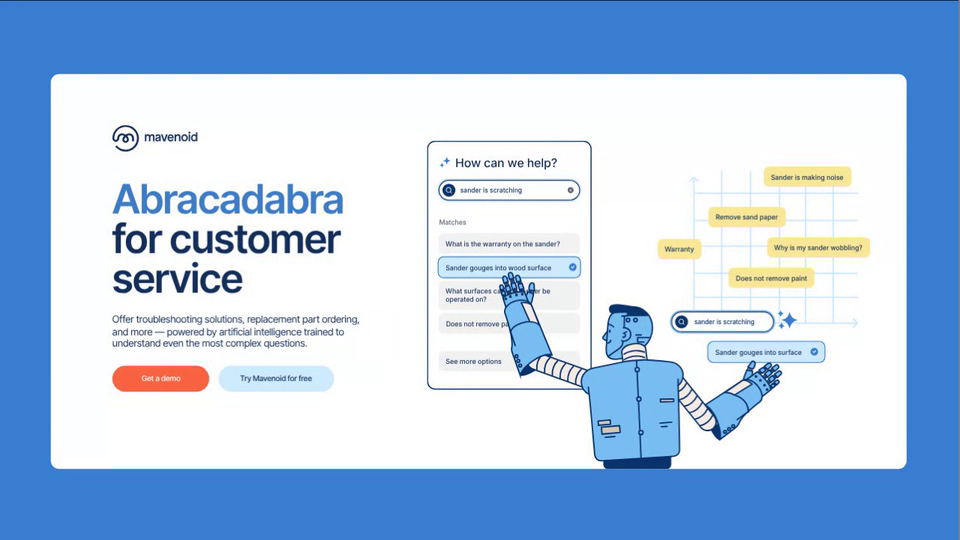
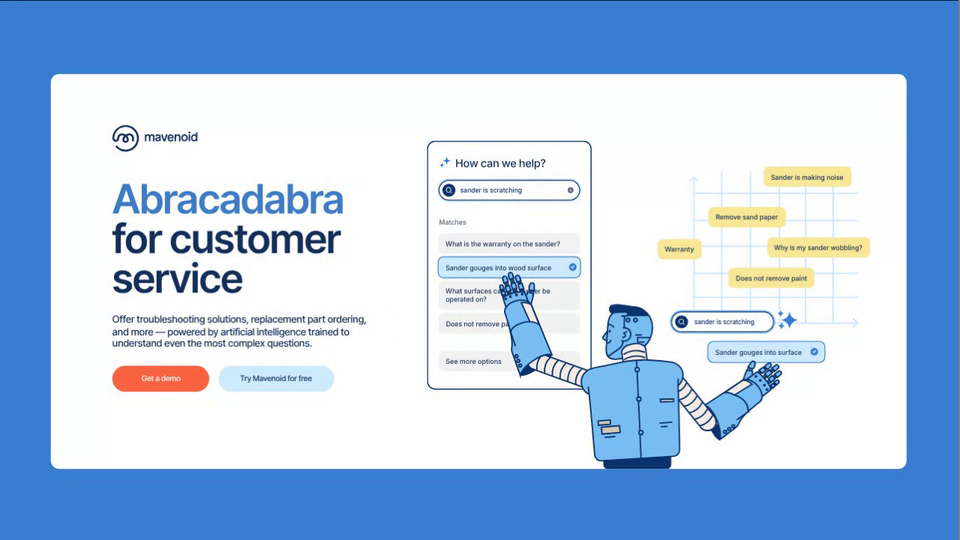
Mavenoid Hero: type tweaks (#766)
* Add Mavenoid Hero: pure-code recreation of the hero on the sandbox blue

Claude-Session: https://claude.ai/code/session_01AHeBdxGLJ6L4xFuMgcZPKG

* Mavenoid Hero: match the reference type (Inter Tight), logo mark and headline measurements

Claude-Session: https://claude.ai/code/session_01AHeBdxGLJ6L4xFuMgcZPKG

* Mavenoid Hero: scale the hero up 20% and tighten the headline line height

Claude-Session: https://claude.ai/code/session_01AHeBdxGLJ6L4xFuMgcZPKG

* Mavenoid Hero: real Mavenoid logo SVG, 30% larger hero, #3a7ed4 background

Claude-Session: https://claude.ai/code/session_01AHeBdxGLJ6L4xFuMgcZPKG

* Mavenoid Hero: tighter headline tracking, looser body copy, hero 15% smaller

Claude-Session: https://claude.ai/code/session_01AHeBdxGLJ6L4xFuMgcZPKG

* Mavenoid Hero: hover, press and focus effects on the two buttons

Claude-Session: https://claude.ai/code/session_01AHeBdxGLJ6L4xFuMgcZPKG

* Mavenoid Hero: buttons darken on hover, no drop shadow

Claude-Session: https://claude.ai/code/session_01AHeBdxGLJ6L4xFuMgcZPKG

* Mavenoid Hero: less rounded card corners, hero 5% bigger

Claude-Session: https://claude.ai/code/session_01AHeBdxGLJ6L4xFuMgcZPKG

* Mavenoid Hero: smaller, bolder, tighter 'How can we help?'; body copy one weight up

Claude-Session: https://claude.ai/code/session_01AHeBdxGLJ6L4xFuMgcZPKG

---------

Changed region(s): [[0.125, 0.563, 0.375, 0.6519], [0.4688, 0.2963, 0.5938, 0.3259]]

diff --git a/mavenoid-hero/index.html b/mavenoid-hero/index.html
@@ -36,7 +36,7 @@ main{flex:1;min-height:0;display:flex;align-items:center;justify-content:center;
 .logo path{fill:#14305A}
 h1{font:600 calc(76.7*var(--u))/calc(75.5*var(--u)) "Inter Tight","Inter","Helvetica Neue",Arial,sans-serif;letter-spacing:-.012em;color:#14305A;white-space:nowrap}
 h1 span{color:#3F7DC6}
-.lede{font:400 calc(18.65*var(--u))/calc(22.5*var(--u)) "Inter Tight","Inter","Helvetica Neue",Arial,sans-serif;color:#14305A;white-space:nowrap}
+.lede{font:500 calc(18.65*var(--u))/calc(22.5*var(--u)) "Inter Tight","Inter","Helvetica Neue",Arial,sans-serif;color:#14305A;white-space:nowrap}
 .btn{display:flex;align-items:center;justify-content:center;height:calc(50.5*var(--u));border-radius:calc(26*var(--u));font:500 calc(14.5*var(--u))/1 "Inter Tight","Inter","Helvetica Neue",Arial,sans-serif;text-decoration:none;white-space:nowrap}
 .btn.go{width:calc(184*var(--u));background:#F96442;color:#fff}
 .btn.try{width:calc(219*var(--u));background:#CFECFF;color:#14305A}
@@ -73,7 +73,7 @@ svg text{font-family:"Inter","Helvetica Neue",Helvetica,Arial,sans-serif;font-we
 <rect x="0.388" y="0.388" width="113.296" height="172.051" rx="5.18884" fill="white" stroke="#0C346C" stroke-width="0.775982"/>
 <path d="M9.58404 16.5915C9.50807 16.6367 9.42754 16.6735 9.34387 16.7015C9.27743 16.7237 9.209 16.7404 9.1393 16.7511C9.10065 16.7571 9.06162 16.7612 9.02231 16.7635C8.99955 16.7648 8.97671 16.7655 8.9538 16.7656L8.95305 16.7656C8.95126 16.7656 8.94948 16.7656 8.94771 16.7657C8.90249 16.767 8.8594 16.7856 8.82732 16.8176C8.79397 16.8509 8.77524 16.8961 8.77524 16.9432C8.77524 16.9664 8.77985 16.9894 8.78882 17.0108C8.79779 17.0322 8.81093 17.0517 8.82747 17.0679C8.84402 17.0842 8.86364 17.0971 8.8852 17.1057C8.90676 17.1143 8.92982 17.1186 8.95305 17.1182L8.9538 17.1183C9.01744 17.1184 9.08057 17.1235 9.14267 17.1332C9.21155 17.144 9.27917 17.1606 9.34485 17.1826C9.42817 17.2106 9.50837 17.2474 9.58404 17.2923C9.67212 17.3447 9.75407 17.4082 9.82768 17.4819C9.90156 17.5559 9.96512 17.6382 10.0174 17.7267C10.0622 17.8024 10.0987 17.8825 10.1264 17.9657C10.1478 18.0299 10.1639 18.096 10.1745 18.1632C10.1846 18.2268 10.1897 18.2914 10.1897 18.3566C10.1897 18.4037 10.2085 18.4489 10.2418 18.4822C10.2752 18.5155 10.3204 18.5342 10.3675 18.5342C10.4147 18.5342 10.4599 18.5155 10.4933 18.4822C10.5266 18.4489 10.5454 18.4037 10.5454 18.3566C10.5454 18.2914 10.5505 18.2268 10.5606 18.1632C10.5712 18.096 10.5873 18.0299 10.6087 17.9657C10.6364 17.8825 10.6729 17.8024 10.7177 17.7267C10.77 17.6382 10.8335 17.5559 10.9074 17.4819C10.981 17.4082 11.063 17.3447 11.151 17.2923C11.2267 17.2474 11.3069 17.2106 11.3902 17.1826C11.4559 17.1606 11.5235 17.144 11.5924 17.1332C11.6308 17.1272 11.6697 17.123 11.7088 17.1206C11.7328 17.1191 11.757 17.1183 11.7813 17.1183L11.782 17.1182C11.8053 17.1186 11.8283 17.1143 11.8499 17.1057C11.8714 17.0971 11.8911 17.0842 11.9076 17.0679C11.9242 17.0517 11.9373 17.0322 11.9463 17.0108C11.9552 16.9894 11.9599 16.9664 11.9598 16.9432C11.9598 16.9199 11.9552 16.8968 11.9463 16.8753C11.9374 16.8537 11.9243 16.8341 11.9078 16.8176C11.8913 16.8011 11.8717 16.788 11.8501 16.7791C11.8302 16.7709 11.8089 16.7663 11.7874 16.7657C11.7856 16.7656 11.7838 16.7656 11.782 16.7656L11.7813 16.7656C11.7584 16.7655 11.7355 16.7648 11.7128 16.7635C11.6735 16.7612 11.6344 16.7571 11.5958 16.7511C11.5261 16.7404 11.4577 16.7237 11.3912 16.7015C11.3075 16.6735 11.227 16.6367 11.151 16.5915C11.063 16.5391 10.981 16.4757 10.9074 16.402C10.8335 16.328 10.77 16.2456 10.7177 16.1571C10.6729 16.0815 10.6364 16.0013 10.6087 15.9181C10.5873 15.8539 10.5712 15.7879 10.5606 15.7206C10.5505 15.6571 10.5454 15.5924 10.5454 15.5273C10.5454 15.4802 10.5266 15.435 10.4933 15.4016C10.4599 15.3683 10.4147 15.3496 10.3675 15.3496C10.3204 15.3496 10.2752 15.3683 10.2418 15.4016C10.2085 15.435 10.1897 15.4802 10.1897 15.5273C10.1897 15.5924 10.1846 15.6571 10.1745 15.7206C10.1639 15.7879 10.1478 15.8539 10.1264 15.9181C10.0987 16.0013 10.0622 16.0815 10.0174 16.1571C9.96512 16.2456 9.90156 16.328 9.82768 16.402C9.75407 16.4757 9.67212 16.5391 9.58404 16.5915Z" fill-rule="evenodd" clip-rule="evenodd" fill="#397ED3"/>
 <path d="M12.5196 13.3345C12.4057 13.4022 12.2849 13.4576 12.1594 13.4995C12.0597 13.5329 11.9571 13.5578 11.8525 13.5739C11.7946 13.5829 11.736 13.5891 11.677 13.5925C11.6429 13.5945 11.6086 13.5955 11.5743 13.5956L11.5731 13.5956C11.5705 13.5956 11.5678 13.5957 11.5651 13.5958C11.4973 13.5978 11.4327 13.6256 11.3845 13.6737C11.3345 13.7237 11.3064 13.7914 11.3064 13.8621C11.3064 13.8969 11.3133 13.9314 11.3268 13.9635C11.3403 13.9956 11.36 14.0247 11.3848 14.0492C11.4096 14.0736 11.439 14.0929 11.4714 14.1058C11.5037 14.1188 11.5383 14.1252 11.5731 14.1246L11.5743 14.1246C11.6697 14.1249 11.7644 14.1325 11.8576 14.1471C11.9609 14.1633 12.0623 14.1882 12.1608 14.2212C12.2858 14.2632 12.4061 14.3183 12.5196 14.3858C12.6517 14.4643 12.7747 14.5595 12.8851 14.6701C12.9959 14.7811 13.0913 14.9046 13.1697 15.0373C13.2368 15.1508 13.2916 15.271 13.3332 15.3959C13.3652 15.4922 13.3894 15.5912 13.4054 15.692C13.4205 15.7874 13.4282 15.8844 13.4282 15.9821C13.4282 16.0528 13.4563 16.1206 13.5063 16.1705C13.5563 16.2205 13.6241 16.2486 13.6949 16.2486C13.7656 16.2486 13.8335 16.2205 13.8835 16.1705C13.9335 16.1206 13.9616 16.0528 13.9616 15.9821C13.9616 15.8844 13.9693 15.7874 13.9844 15.692C14.0003 15.5912 14.0246 15.4922 14.0566 15.3959C14.0982 15.271 14.1529 15.1508 14.22 15.0373C14.2985 14.9046 14.3939 14.7811 14.5047 14.6701C14.6151 14.5595 14.738 14.4643 14.8701 14.3858C14.9836 14.3183 15.1039 14.2632 15.2289 14.2212C15.3274 14.1882 15.4289 14.1633 15.5322 14.1471C15.5898 14.1381 15.6481 14.1317 15.7067 14.1281C15.7428 14.1259 15.7791 14.1247 15.8155 14.1246L15.8166 14.1246C15.8515 14.1252 15.8861 14.1188 15.9184 14.1058C15.9507 14.0929 15.9802 14.0736 16.005 14.0492C16.0298 14.0247 16.0495 13.9956 16.063 13.9635C16.0764 13.9314 16.0833 13.8969 16.0833 13.8621C16.0833 13.8271 16.0764 13.7925 16.063 13.7601C16.0496 13.7278 16.03 13.6984 16.0052 13.6737C15.9805 13.6489 15.9511 13.6293 15.9187 13.6159C15.8888 13.6036 15.8569 13.5967 15.8246 13.5958C15.822 13.5957 15.8193 13.5956 15.8166 13.5956L15.8155 13.5956C15.7811 13.5955 15.7469 13.5945 15.7127 13.5925C15.6538 13.5891 15.5952 13.5829 15.5372 13.5739C15.4327 13.5578 15.3301 13.5329 15.2304 13.4995C15.1049 13.4575 14.9841 13.4022 14.8701 13.3345C14.738 13.256 14.6151 13.1608 14.5047 13.0502C14.3939 12.9392 14.2985 12.8157 14.22 12.683C14.1529 12.5695 14.0982 12.4493 14.0566 12.3244C14.0246 12.2281 14.0003 12.1291 13.9844 12.0282C13.9693 11.9329 13.9616 11.8359 13.9616 11.7382C13.9616 11.6675 13.9335 11.5997 13.8835 11.5497C13.8335 11.4998 13.7656 11.4717 13.6949 11.4717C13.6241 11.4717 13.5563 11.4998 13.5063 11.5497C13.4563 11.5997 13.4282 11.6675 13.4282 11.7382C13.4282 11.8359 13.4205 11.9329 13.4054 12.0282C13.3894 12.1291 13.3652 12.2281 13.3332 12.3244C13.2916 12.4493 13.2368 12.5695 13.1697 12.683C13.0913 12.8157 12.9959 12.9392 12.8851 13.0502C12.7747 13.1608 12.6517 13.256 12.5196 13.3345Z" fill-rule="evenodd" clip-rule="evenodd" fill="#397ED3"/>
-<text x="19.6" y="18.3" style="font-size:8.3px;letter-spacing:-.1px" font-weight="500" fill="#173259">How can we help?</text>
+<text x="19.6" y="18.3" style="font-size:7.6px;letter-spacing:-.22px" font-weight="600" fill="#173259">How can we help?</text>
 <!-- input -->
 <rect x="7.52718" y="26.6827" width="99.0175" height="15.3027" rx="7.65135" stroke="#CEEAFF" stroke-width="0.900159"/>
 <rect x="8.27732" y="27.4329" width="97.5173" height="13.8024" rx="6.90122" fill="white" stroke="#0C346C" stroke-width="0.600106"/>
